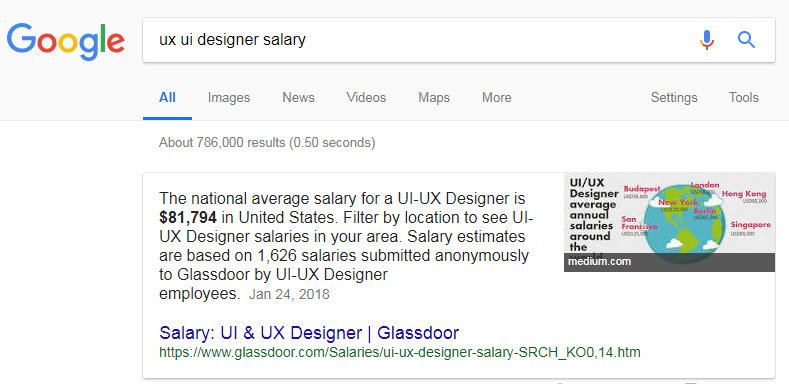
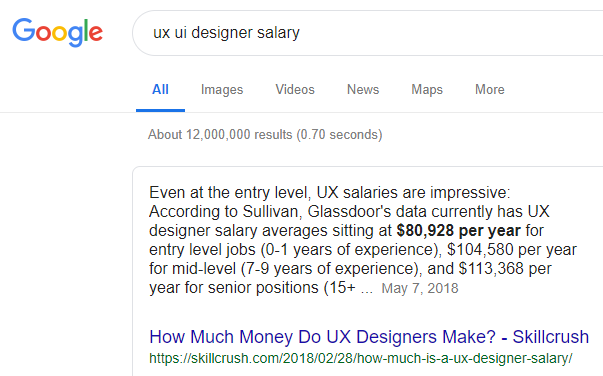
updated job desc

diff --git a/index.html b/index.html
@@ -73,7 +73,7 @@
       </p>
       <ul>
         <li class="github">
-          <a rel="external" href="https://github.com/avcoder/comp2105-week01" title="Github">
+          <a rel="external" href="https://github.com/avcoder/comp2105-week02" title="Github">
             <svg class="fa-github">
               <use xlink:href="#fa-github"></use>
             </svg>
@@ -107,13 +107,13 @@
         <!--.wrap = container (width: 90%) -->
         <div class="wrap aligncenter">
           <h1>
-            <strong>Week 2 - Storyboards / Prototyping </strong>
+            <strong>Storyboards / Prototyping </strong>
           </h1>
           <p class="text-intro">COMP 2105: Motion Graphics for Interaction
-            <br> albert.villaruz@georgiancollege.ca
+            <br> Week 2
           </p>
           <p>
-            <a href="https://github.com/avcoder/comp2105-week03" class="button zoomIn" title="Download WebSlides for free">
+            <a href="https://github.com/avcoder/comp2105-week02" class="button zoomIn" title="Download WebSlides for free">
               <svg class="fa-github">
                 <use xlink:href="#fa-github"></use>
               </svg>
@@ -160,7 +160,7 @@
         <div class="wrap size-50">
 
           <h4>
-            <a href="https://www.netcracker.com/careers/985355.html?gh_jid=985355&gh_src=l4iq5x1">UI Designer job posting</a>
+            <a href="https://boldcommerce.com/careers/ui-designer?id=28a17c2e-fd3e-4043-bc9a-78b5adf11e66">UI Designer : typical job posting</a>
           </h4>
           <img style="width: 1200px;" src="./static/images/uijob.jpg" alt="Sample job posting for UI Designer">
           <p>Knowing HTML, CSS, JS is nice-to-have, but not necessary for UI Designers.</p>
@@ -174,7 +174,7 @@
         <div class="wrap size-50">
 
           <h4>
-            <a href="https://www.netcracker.com/careers/985355.html?gh_jid=985355&gh_src=l4iq5x1">Google UI/UX Designer Salary</a>
+            <a href="https://www.google.com/search?q=ux+ui+designer+salary&oq=ux+ui+designer+salary&sourceid=chrome&ie=UTF-8">Google UI/UX Designer Salary</a>
           </h4>
           <img style="width: 1200px;" src="./static/images/salary.png" alt="Sample job posting for UI Designer">
 
@@ -969,7 +969,7 @@
         <div class="wrap size-50 frame">
           <h2 class="text-serif aligncenter">
             Discussion 2 + Break
-            <br/> (15 mins) + (15 mins)
+            <br/> (10 mins) + (20 mins)
             <br/>= 30 mins
           </h2>
           <p class="aligncenter">
